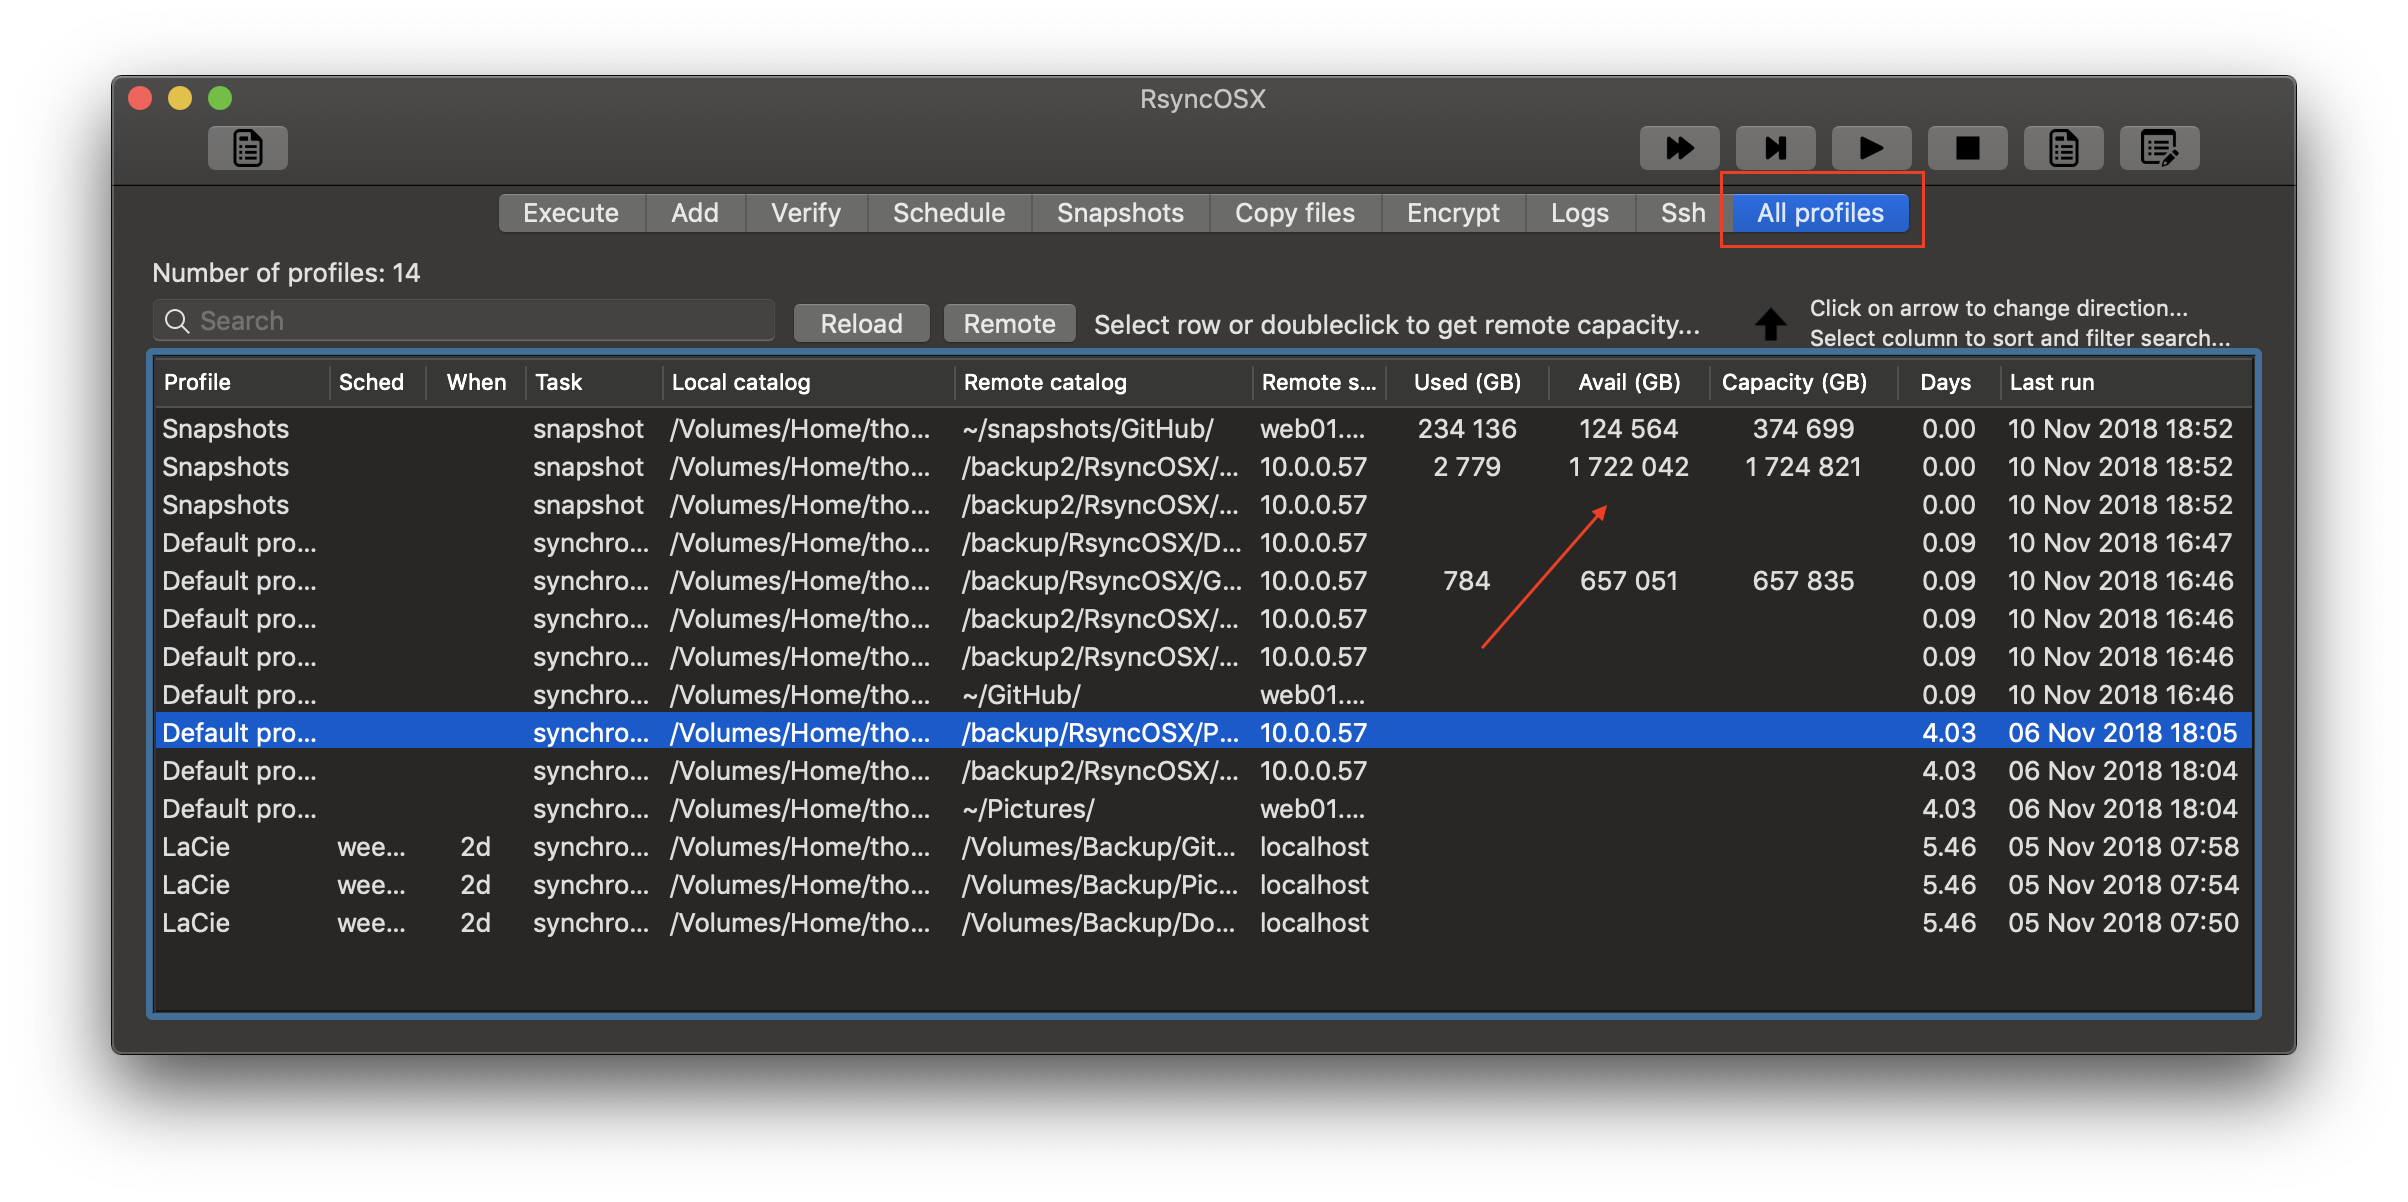
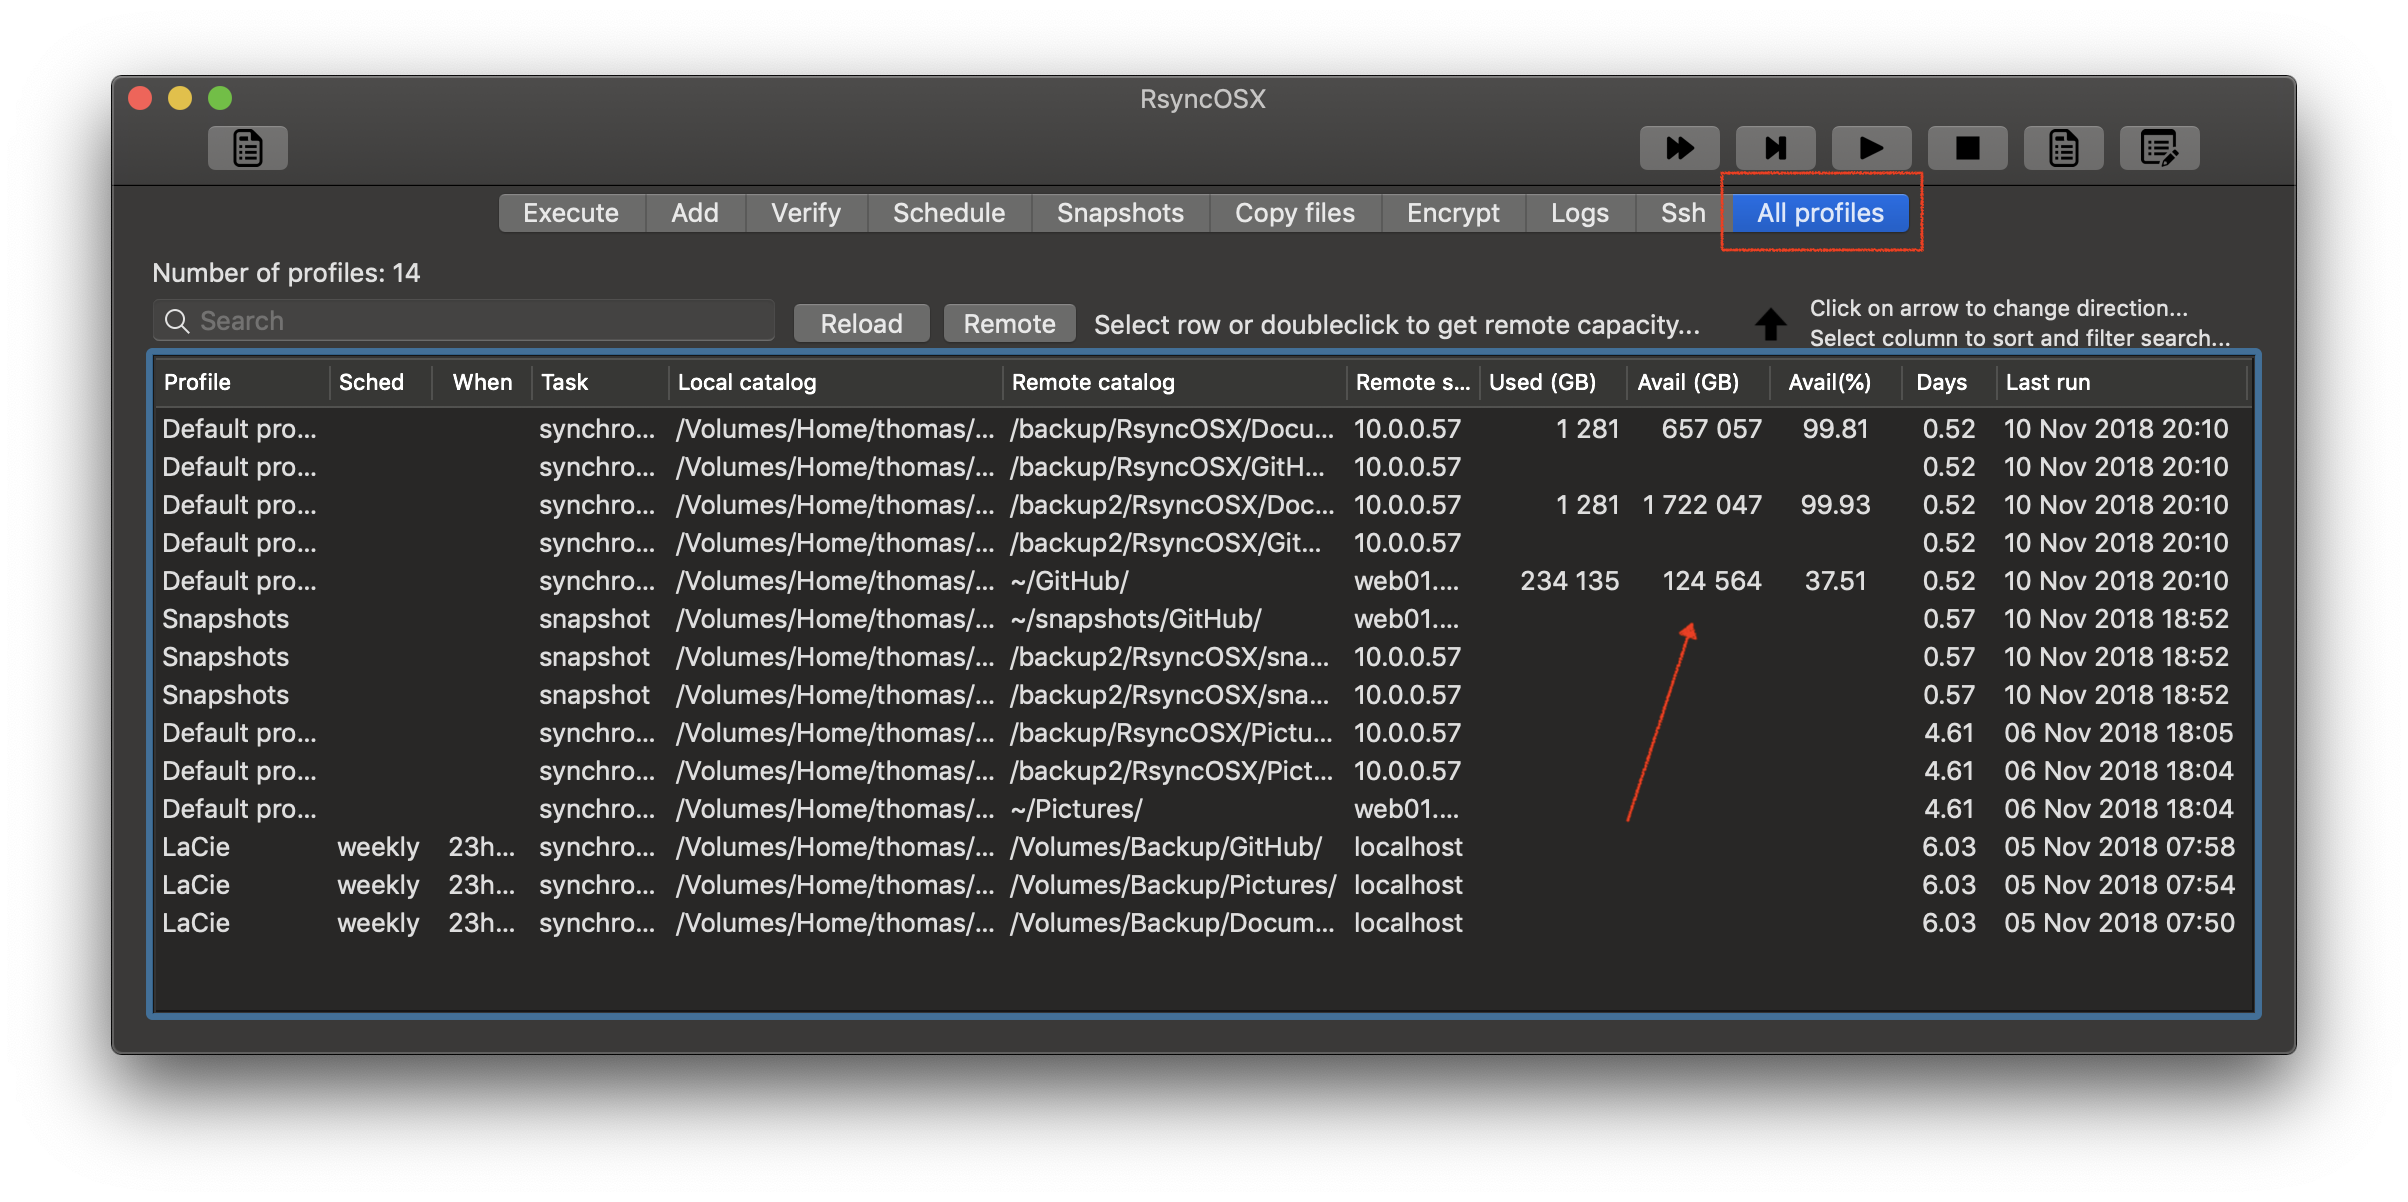
update

diff --git a/_posts/2018-04-10-Changelog.md b/_posts/2018-04-10-Changelog.md
@@ -9,14 +9,14 @@ For more information about **signing** and **notarizing** of `RsyncOSX.app.app` 
 
 ## Version 5.5.6 rc
 
-Updated 8 Nov 2018.
+Updated 11 Nov 2018.
 
 The following are changes in the rc:
 - refactor batch tasks
 - the userconfig is refactored
 - and some minor bugfixes and tweaks (gui)
 - the RsyncOSX.app is [notarized](https://support.apple.com/en-us/HT202491) by Apple
-- in the All profiles tab info about used and available remote storage (**not yet** in release candidate)
+- in the All profiles tab info about used and available remote storage
 
 Here are some screenshots of what is in this [version](/nextversion).
 
